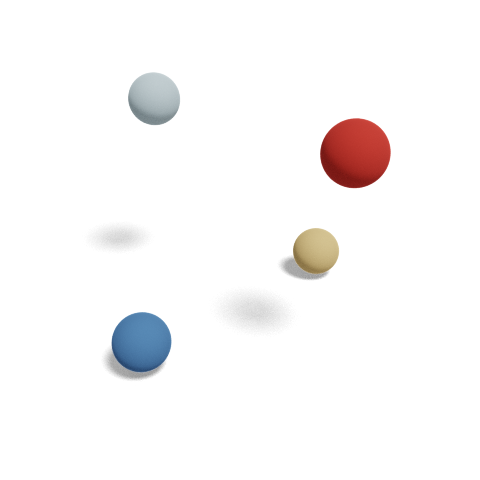
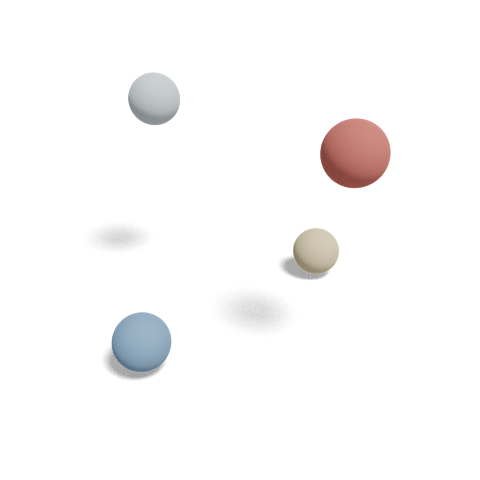
address the color point cloud issue
Assigning point cloud colors no longer require a giant face loop. This update switch to Point attributes

Changed region(s): [[0.6562, 0.25, 0.8125, 0.4062], [0.2188, 0.625, 0.375, 0.7812], [0.5938, 0.4688, 0.7188, 0.5938]]

diff --git a/BlenderToolBox/readNumpyPoints.py b/BlenderToolBox/readNumpyPoints.py
@@ -27,6 +27,10 @@ def readNumpyPoints(P,location,rotation_euler,scale,point_colors=None):
 
     Output
     mesh_obj a blender object
+
+    Note
+    We should update this structure (using a mesh to encode point clouds) when the PointCloud data becomes mature.
+
     """
     x = rotation_euler[0] * 1.0 / 180.0 * np.pi 
     y = rotation_euler[1] * 1.0 / 180.0 * np.pi 
@@ -34,23 +38,25 @@ def readNumpyPoints(P,location,rotation_euler,scale,point_colors=None):
     angle = (x,y,z)
 
     mesh = bpy.data.meshes.new(name='numpy point cloud')
-    F = [np.arange(P.shape[0])] # the face of a point cloud is a single large polygonal face because blender mesh only support face colors
-    mesh.from_pydata(P,[],F)
+    # F = [np.arange(P.shape[0])] # the face of a point cloud is a single large polygonal face because blender mesh only support face colors 
+    mesh.from_pydata(P,[],[])
     mesh.update()
     mesh.validate()
     mesh_obj = bpy.data.objects.new('numpy point cloud object', mesh)
     mesh_obj.location = location
     mesh_obj.rotation_euler = angle
     mesh_obj.scale = scale
-    bpy.context.scene.collection.objects.link(mesh_obj)
+
+    # add object to scene collection
+    bpy.data.collections[0].objects.link(mesh_obj)
     bpy.context.view_layer.update()
 
-    if point_colors is not None: # if specified vertex colors
-        # Note: blender use name to reference an object, so I use "Col" here. If we change to another name, we will need to change other parts in the toolbox
-        color_layer = mesh.vertex_colors.new(name='Col') 
-        if P.shape[0] != point_colors.shape[0]:
-            raise ValueError('Error in "readNumpyPoints": point colors must have the same length as the number of points')
-        for vIdx in range(P.shape[0]):
-            # blender use per-corner color so we loop over each face one-by-one
-            color_layer.data[vIdx].color = (point_colors[vIdx,0],point_colors[vIdx,1],point_colors[vIdx,2], 1.0)
+    # if point_colors is not None: # if specified vertex colors
+    #     # Note: blender use name to reference an object, so I use "Col" here. If we change to another name, we will need to change other parts in the toolbox
+    #     color_layer = mesh.vertex_colors.new(name='Col') 
+    #     if P.shape[0] != point_colors.shape[0]:
+    #         raise ValueError('Error in "readNumpyPoints": point colors must have the same length as the number of points')
+    #     for vIdx in range(P.shape[0]):
+    #         # blender use per-corner color so we loop over each face one-by-one
+    #         color_layer.data[vIdx].color = (point_colors[vIdx,0],point_colors[vIdx,1],point_colors[vIdx,2], 1.0)
     return mesh_obj 

diff --git a/BlenderToolBox/setMat_pointCloudColored.py b/BlenderToolBox/setMat_pointCloudColored.py
@@ -12,9 +12,12 @@
 # See the License for the specific language governing permissions and
 # limitations under the License.
 import bpy
+from mathutils import Vector
 
 def setMat_pointCloudColored(mesh, meshColor, ptSize): 
     mat = bpy.data.materials.new('MeshMaterial')
+    mesh.data.materials.append(mat)
+    mesh.active_material = mat
     mat.use_nodes = True
     tree = mat.node_tree
 
@@ -44,18 +47,37 @@ def setMat_pointCloudColored(mesh, meshColor, ptSize):
     mesh.select_set(True)
     bpy.context.view_layer.objects.active = mesh
 
+    # this if else is a quick hack to handle blender 3.2.x vs earlier versions
     bpy.ops.object.modifier_add(type='NODES')
-    tree = mesh.modifiers[-1].node_group
-    IN = tree.nodes['Group Input']
-    OUT = tree.nodes['Group Output']
-    MESH2POINT = tree.nodes.new('GeometryNodeMeshToPoints')
+    if mesh.modifiers[-1].node_group:
+        geo_tree = mesh.modifiers[-1].node_group    
+    else:
+        geo_tree = new_GeometryNodes_group()
+        mesh.modifiers[-1].node_group = geo_tree
+    IN = geo_tree.nodes['Group Input']
+    OUT = geo_tree.nodes['Group Output']
+    MESH2POINT = geo_tree.nodes.new('GeometryNodeMeshToPoints')
     MESH2POINT.location.x -= 100
     MESH2POINT.inputs['Radius'].default_value = ptSize
-    MATERIAL = tree.nodes.new('GeometryNodeSetMaterial')
+    MATERIAL = geo_tree.nodes.new('GeometryNodeSetMaterial')
 
-    tree.links.new(IN.outputs['Geometry'], MESH2POINT.inputs['Mesh'])
-    tree.links.new(MESH2POINT.outputs['Points'], MATERIAL.inputs['Geometry'])
-    tree.links.new(MATERIAL.outputs['Geometry'], OUT.inputs['Geometry'])
+    geo_tree.links.new(IN.outputs['Geometry'], MESH2POINT.inputs['Mesh'])
+    geo_tree.links.new(MESH2POINT.outputs['Points'], MATERIAL.inputs['Geometry'])
+    geo_tree.links.new(MATERIAL.outputs['Geometry'], OUT.inputs['Geometry'])
 
     # assign the material to point cloud
     MATERIAL.inputs[2].default_value = mat
+
+def new_GeometryNodes_group():
+    ''' Create a new empty node group that can be used
+        in a GeometryNodes modifier.
+    '''
+    node_group = bpy.data.node_groups.new('GeometryNodes', 'GeometryNodeTree')
+    inNode = node_group.nodes.new('NodeGroupInput')
+    inNode.outputs.new('NodeSocketGeometry', 'Geometry')
+    outNode = node_group.nodes.new('NodeGroupOutput')
+    outNode.inputs.new('NodeSocketGeometry', 'Geometry')
+    node_group.links.new(inNode.outputs['Geometry'], outNode.inputs['Geometry'])
+    inNode.location = Vector((-1.5*inNode.width, 0))
+    outNode.location = Vector((1.5*outNode.width, 0))
+    return node_group

diff --git a/BlenderToolBox/setPointScalars.py b/BlenderToolBox/setPointScalars.py
@@ -39,25 +39,29 @@ def setPointScalars(mesh_obj, C, color_map_name = 'default'):
     """
     mesh = mesh_obj.data
     nV = len(mesh.vertices)
-    nF = len(mesh.polygons)
+    # nF = len(mesh.polygons)
 
     # guess the type of colors
     if C.shape[0] != nV:
         raise ValueError('Error in "setPointColors": input color format must be eithe |P|x3 array of point colors')
 
-    if nF != 1:
-        raise ValueError('Error in "setPointColors": please switch to "readNumpyPoints" to read the input point cloud')
+    # if nF != 1:
+    #     raise ValueError('Error in "setPointColors": please switch to "readNumpyPoints" to read the input point cloud')
     
     C_RGB = colorMap(C, color_map_name)
 
-    # assigning vertex colors
-    color_layer = mesh.vertex_colors.new(name='Col') 
-    idx = 0
-    for fIdx in range(nF):
-        for vIdx in mesh.polygons[fIdx].vertices:
-            color_layer.data[idx].color = (C_RGB[vIdx,0],C_RGB[vIdx,1],C_RGB[vIdx,2], 1.0)
-            idx += 1
-    
+    # # assigning vertex colors
+    # color_layer = mesh.vertex_colors.new(name='Col') 
+    # idx = 0
+    # for fIdx in range(nF):
+    #     for vIdx in mesh.polygons[fIdx].vertices:
+    #         color_layer.data[idx].color = (C_RGB[vIdx,0],C_RGB[vIdx,1],C_RGB[vIdx,2], 1.0)
+    #         idx += 1
+
+    color_layer = mesh.attributes.new(name="Col", type='FLOAT_COLOR', domain='POINT')
+    for ii in range(nV):
+        color_layer.data[ii].color = (C_RGB[ii,0],C_RGB[ii,1],C_RGB[ii,2], 1.0)
+
     return mesh_obj
 
 

diff --git a/BlenderToolBox/setPointColors.py b/BlenderToolBox/setPointColors.py
@@ -27,24 +27,29 @@ def setPointColors(mesh_obj, C):
     """
     mesh = mesh_obj.data
     nV = len(mesh.vertices)
-    nF = len(mesh.polygons)
 
     # guess the type of colors
     if C.shape[0] != nV:
         raise ValueError('Error in "setPointColors": input color format must be eithe |P|x3 array of point colors')
 
-    if nF != 1:
-        raise ValueError('Error in "setPointColors": please switch to "readNumpyPoints" to read the input point cloud')
-
-    # assigning vertex colors
-    color_layer = mesh.vertex_colors.new(name='Col') 
-    idx = 0
-    for fIdx in range(nF):
-        for vIdx in mesh.polygons[fIdx].vertices:
-            color_layer.data[idx].color = (C[vIdx,0],C[vIdx,1],C[vIdx,2], 1.0)
-            idx += 1
+    color_layer = mesh.attributes.new(name="Col", type='FLOAT_COLOR', domain='POINT')
+    for ii in range(nV):
+        color_layer.data[ii].color = (C[ii,0],C[ii,1],C[ii,2], 1.0)
     
     return mesh_obj
+
+
+# RIP for Blender before 3.2 Alpha
+# if nF != 1:
+#     raise ValueError('Error in "setPointColors": please switch to "readNumpyPoints" to read the input point cloud')
+
+# # assigning vertex colors
+# color_layer = mesh.vertex_colors.new(name='Col') 
+# idx = 0
+# for fIdx in range(nF):
+#     for vIdx in mesh.polygons[fIdx].vertices:
+#         color_layer.data[idx].color = (C[vIdx,0],C[vIdx,1],C[vIdx,2], 1.0)
+#         idx += 1
 
 
 

diff --git a/demos/demo_vertexColors_ply.py b/demos/demo_vertexColors_ply.py
@@ -9,7 +9,7 @@ cwd = os.getcwd()
 Warning: this function may be obsolete: please check out demo_vertexColors.py and demo_faceColors.py
 """
 
-outputPath = os.path.join(cwd, './demo_vertexColors_old.png') # make it abs path for windows
+outputPath = os.path.join(cwd, './demo_vertexColors_ply.png') # make it abs path for windows
 
 ## initialize blender
 imgRes_x = 480 

diff --git a/template_pointCloud_numpy.py b/template_pointCloud_numpy.py
@@ -58,5 +58,5 @@ bt.shadowThreshold(alphaThreshold = 0.05, interpolationMode = 'CARDINAL')
 ## save blender file so that you can adjust parameters in the UI
 bpy.ops.wm.save_mainfile(filepath=os.getcwd() + '/test.blend')
 
-## save rendering
+# ## save rendering
 bt.renderImage(outputPath, cam)
